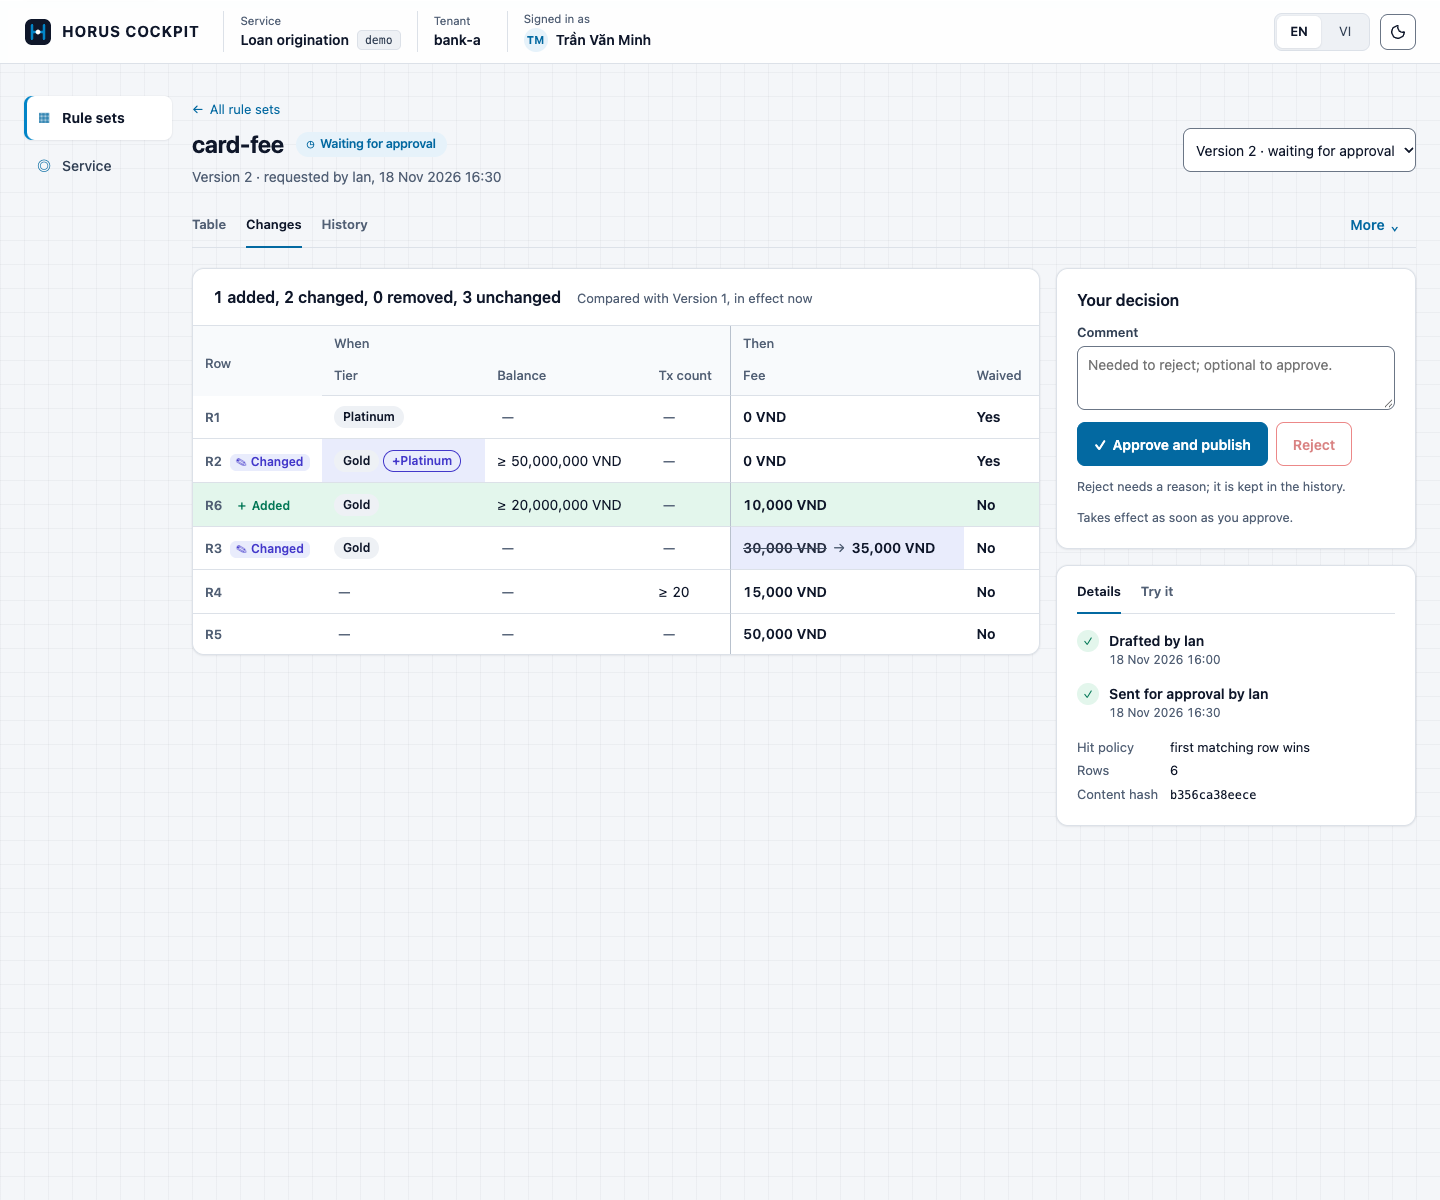
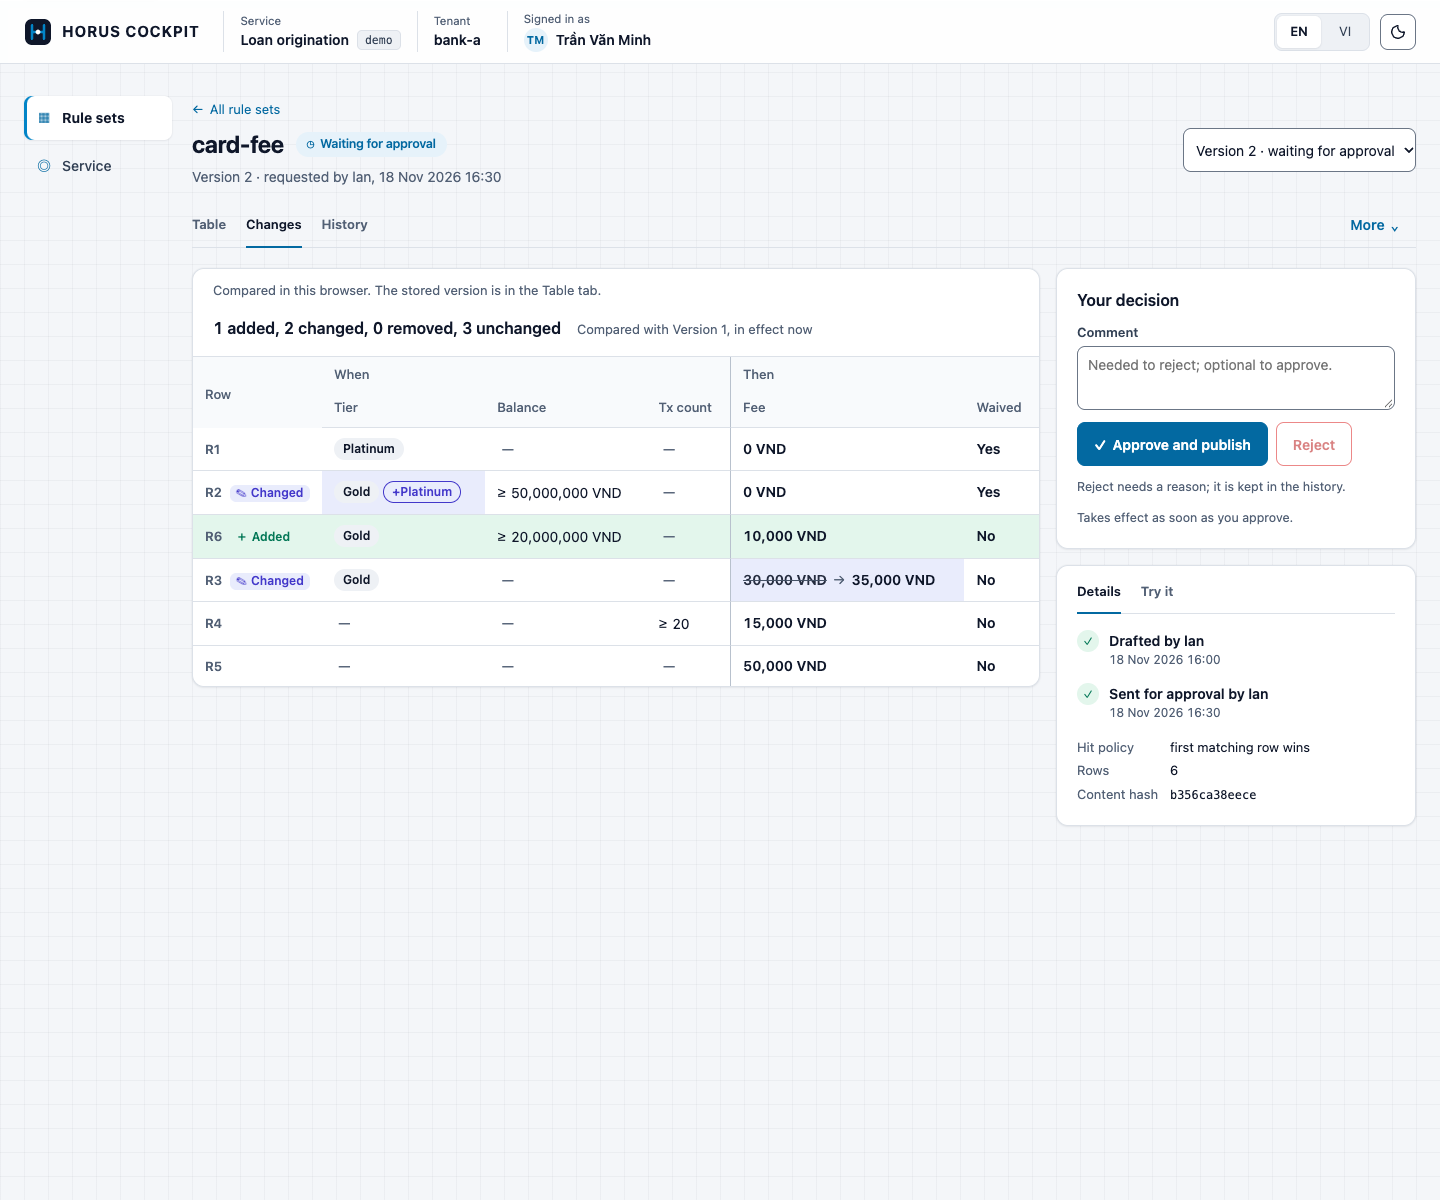
feat(cockpit): say where the review comparison is made
One plain line above the change summary: "Compared in this browser. The stored version is
in the Table tab." (EN and VI). The summary also counts changed cells whose literals hold
characters outside ASCII, beside the marks on the cells themselves.

Changed region(s): [[0.125, 0.2158, 0.7188, 0.555]]

diff --git a/cockpit/web/src/features/rules/components/ChangesView.tsx b/cockpit/web/src/features/rules/components/ChangesView.tsx
@@ -88,10 +88,16 @@ export function ChangesView({ definition, base, baseVersion, baseInEffect }: {
 }) {
   const { t, locale } = useI18n();
   const rows = diffRules(base?.rules ?? [], definition.rules);
+  // Changed cells whose new literal holds characters outside ASCII, so the summary can flag them too.
+  const nonAscii = rows.reduce((total, row) => total + [...row.changedCells].filter((cell) => {
+    const [part, name] = cell.split('.') as ['when' | 'then', string];
+    return nonAsciiCharacters(cellText(row.rule?.[part][name])).length > 0;
+  }).length, 0);
   const count = (change: RowDiff['change']) => String(rows.filter((row) => row.change === change || (change === 'MOVED' && row.moved && row.change === 'CHANGED')).length);
   const empty: Rule = { id: '', when: {}, then: {} };
   return (
     <div className="changes">
+      {base ? <p className="changes__note">{t('changes.browserNote')}</p> : null}
       <p className="changes__summary">
         {base && baseVersion !== undefined ? (
           <>
@@ -101,6 +107,9 @@ export function ChangesView({ definition, base, baseVersion, baseInEffect }: {
         ) : (
           <strong>{t('changes.first')}</strong>
         )}
+        {nonAscii > 0 ? (
+          <span className="nonascii-mark"><span aria-hidden="true">▲</span> {t('changes.nonAsciiCount', { count: String(nonAscii) })}</span>
+        ) : null}
       </p>
       <div className="dt-scroll" role="region" tabIndex={0} aria-label={t('changes.tableLabel')}>
         <table className="dt dt--diff">

diff --git a/cockpit/web/src/features/rules/RuleScreens.test.tsx b/cockpit/web/src/features/rules/RuleScreens.test.tsx
@@ -184,6 +184,8 @@ describe('four eyes', () => {
     open('#/rules/card-fee/2', 'rules-approver');
     expect(await screen.findByText('Compared with Version 1, in effect now')).toBeInTheDocument();
     expect(screen.getByText('1 added, 2 changed, 0 removed, 3 unchanged')).toBeInTheDocument();
+    expect(screen.getByText('Compared in this browser. The stored version is in the Table tab.')).toBeInTheDocument();
+    expect(screen.queryByText(/Characters outside ASCII/)).not.toBeInTheDocument();
     // One table: the stored version is the Table tab; Details carries its content hash.
     expect(screen.getAllByRole('table')).toHaveLength(1);
     expect(screen.getByText('Content hash')).toBeInTheDocument();

diff --git a/cockpit/web/src/features/rules/components/ChangesView.test.tsx b/cockpit/web/src/features/rules/components/ChangesView.test.tsx
@@ -21,6 +21,8 @@ describe('approver changes', () => {
     );
     expect(screen.getByText('Non-ASCII: О U+041E')).toBeInTheDocument();
     expect(screen.getAllByText(/Non-ASCII/)).toHaveLength(1);
+    expect(screen.getByText('Characters outside ASCII in 1 changed cells')).toBeInTheDocument();
+    expect(screen.getByText('Compared in this browser. The stored version is in the Table tab.')).toBeInTheDocument();
     expect(screen.getByText('0 added, 1 changed, 0 removed, 1 unchanged')).toBeInTheDocument();
     expect(screen.getByText('Compared with Version 1, in effect now')).toBeInTheDocument();
     expect(screen.queryByText(/Aid:/)).not.toBeInTheDocument();

diff --git a/cockpit/web/src/i18n/vi.ts b/cockpit/web/src/i18n/vi.ts
@@ -284,5 +284,7 @@ export const vi: Record<MessageKey, string> = {
   'list.version': 'Phiên bản {version}',
   'toast.close': 'Đóng',
   'editor.unsavedOne': '1 thay đổi chưa lưu',
+  'changes.browserNote': 'So sánh trong trình duyệt. Phiên bản đã lưu nằm ở thẻ Bảng.',
+  'changes.nonAsciiCount': 'Ký tự ngoài ASCII trong {count} ô đã sửa',
   'problem.engineDetail': 'Thông báo gốc của hệ thống (tiếng Anh)',
 };

diff --git a/cockpit/web/src/components/rules.css b/cockpit/web/src/components/rules.css
@@ -378,3 +378,5 @@ textarea.field__input { min-height: 64px; resize: vertical; line-height: 1.45; }
 .picker__trigger .value-pill { flex: 0 1 auto; min-width: 0; overflow: hidden; text-overflow: ellipsis; }
 .dt--edit td { min-width: 96px; }
 .try__tile dd { font-size: 18px; white-space: nowrap; }
+.changes__note { padding: 12px 20px 0; color: var(--muted); font-size: 13px; }
+.changes__summary .nonascii-mark { margin-top: 0; }

diff --git a/cockpit/web/src/i18n/en.ts b/cockpit/web/src/i18n/en.ts
@@ -282,6 +282,8 @@ export const en = {
   'list.version': 'Version {version}',
   'toast.close': 'Close',
   'editor.unsavedOne': '1 unsaved change',
+  'changes.browserNote': 'Compared in this browser. The stored version is in the Table tab.',
+  'changes.nonAsciiCount': 'Characters outside ASCII in {count} changed cells',
   'problem.engineDetail': 'Engine message',
 } as const;
 
